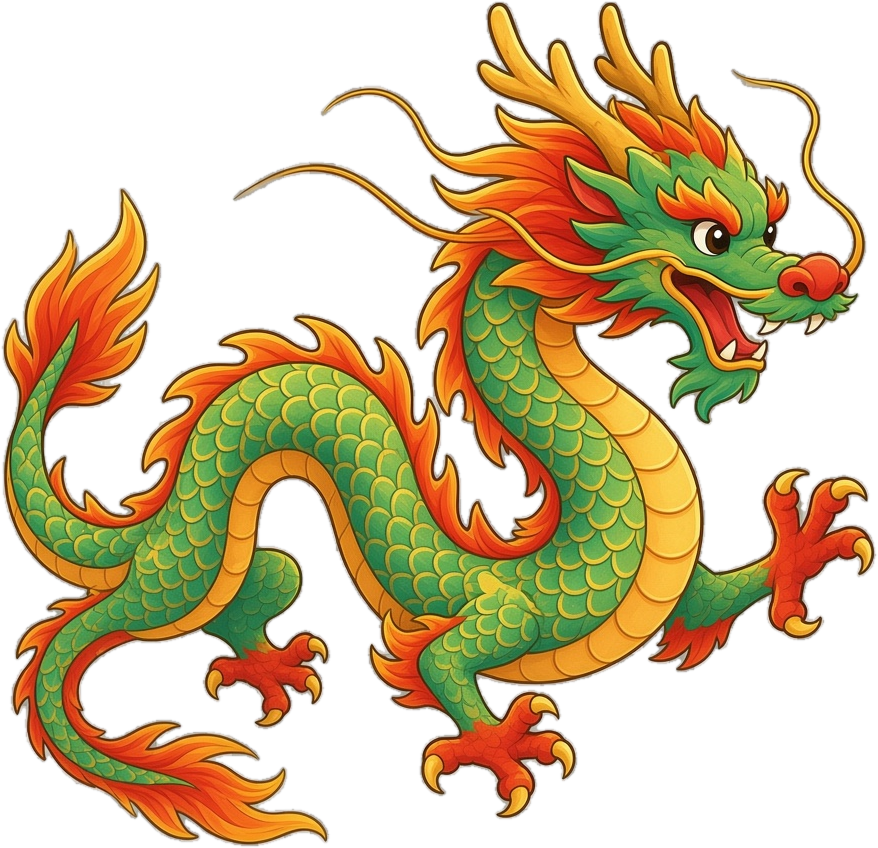
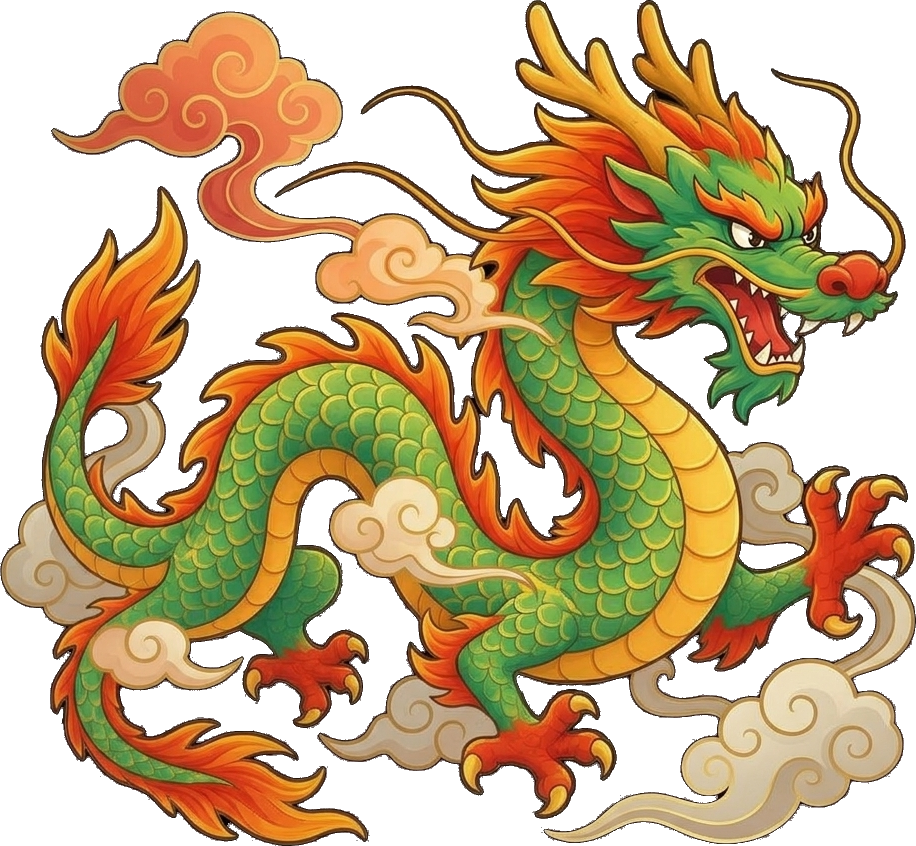
更新龍與招財貓圖示並換新favicon

diff --git a/index.html b/index.html
@@ -5,11 +5,11 @@
 <meta name="viewport" content="width=device-width, initial-scale=1, viewport-fit=cover" />
 <meta name="theme-color" content="#06384a" />
 <title>香港麻雀釣魚</title>
-<link rel="icon" href="assets/icons/maneki-neko-gemini.png" />
+<link rel="icon" href="assets/icons/cat-fishing-boat.png" />
 <link rel="preconnect" href="https://fonts.googleapis.com" />
 <link rel="preconnect" href="https://fonts.gstatic.com" crossorigin />
 <link href="https://fonts.googleapis.com/css2?family=Noto+Sans+TC:wght@400;500;700&display=swap" rel="stylesheet" />
-<link rel="stylesheet" href="css/style.css?v=1.4.160" />
+<link rel="stylesheet" href="css/style.css?v=1.4.161" />
 </head>
 <body>
 <canvas id="game" aria-label="釣魚遊戲畫面"></canvas>
@@ -77,7 +77,7 @@
 <div id="menuScreen" class="modal menu-screen" role="dialog" aria-modal="true" aria-label="主選單">
   <div class="modal-card menu-card">
     <div class="menu-title-row">
-        <span class="lucky-cat"><img src="assets/icons/maneki-neko-gemini.png" alt="招財貓" /></span>
+        <span class="lucky-cat"><img src="assets/icons/cat-fishing-boat.png" alt="招財貓" /></span>
         <h1 class="menu-title">香港麻雀釣魚</h1>
       </div>
     <p class="menu-subtitle">拋竿釣牌，湊成你的胡牌。</p>
@@ -359,6 +359,6 @@
 </section>
 
 <script src="https://cdn.jsdelivr.net/npm/peerjs@1.5.4/dist/peerjs.min.js" onerror="this.onerror=null;this.src='js/vendor/peerjs.min.js'"></script>
-<script type="module" src="js/game.js?v=1.4.160"></script>
+<script type="module" src="js/game.js?v=1.4.161"></script>
 </body>
 </html>

diff --git a/js/game.js b/js/game.js
@@ -14,11 +14,11 @@ import {
   WINDS, ORPHANS, PATTERN_TABLE, FLOWER_PATTERN_TABLE, countTiles, randomTileKind,
   evaluateHand, findWaits, formatWinBreakdown, isThirteenOrphans,
   withFlowers, flowerWin, flowerWinResult, sortPatternRows,
-} from './rules.js?v=1.4.160';
+} from './rules.js?v=1.4.161';
 import {
   wildcardWaitTiles, characterAbility, bonusFanFor, applyAbilityMoney,
   cooldownReady, startCooldown,
-} from './abilities.js?v=1.4.160';
+} from './abilities.js?v=1.4.161';
 
 const canvas = document.getElementById('game');
 const ctx = canvas.getContext('2d');
@@ -7583,13 +7583,13 @@ async function boot() {
       wildcardImage = new Image();
       wildcardImage.onload = () => resolve();
       wildcardImage.onerror = () => resolve();
-      wildcardImage.src = 'assets/tiles/wildcard.png?v=1.4.160';
+      wildcardImage.src = 'assets/tiles/wildcard.png?v=1.4.161';
     }),
     new Promise((resolve) => {
       inkSplashImage = new Image();
       inkSplashImage.onload = () => resolve();
       inkSplashImage.onerror = () => resolve();
-      inkSplashImage.src = 'assets/icons/ink-splash.png?v=1.4.160';
+      inkSplashImage.src = 'assets/icons/ink-splash.png?v=1.4.161';
     }),
   ]);
   game.images = { ...loaded.images, WILD: wildcardImage };

diff --git a/README.md b/README.md
@@ -1,6 +1,6 @@
 # 香港麻雀釣魚
 
-**立即遊玩：** https://timmylaikh.github.io/Mahjong-fishing/?v=1.4.160
+**立即遊玩：** https://timmylaikh.github.io/Mahjong-fishing/?v=1.4.161
 
 一個**純靜態**的香港麻雀釣魚小遊戲：在海底釣起麻將牌，湊成四組一將並胡牌。沒有框架、沒有打包步驟；所有規則判定都由 `js/rules.js` 這個純模組負責，因此 `node tests/rules.test.mjs` 可以直接在 Node 執行。
 

diff --git a/CHANGELOG.md b/CHANGELOG.md
@@ -1,3 +1,8 @@
+## 1.4.161 — 龍與招財貓圖示更新
+
+- 更新神龍角色圖片為綠龍新設計。
+- 改用新的釣魚招財貓圖片作為 favicon 與主選單圖示。
+
 ## 1.4.160 — 角色素材更新
 
 - 更新長頸鹿、小豬、熊貓、麻雀的角色圖片（Downloads 最新 PNG，裁切透明背景）。
